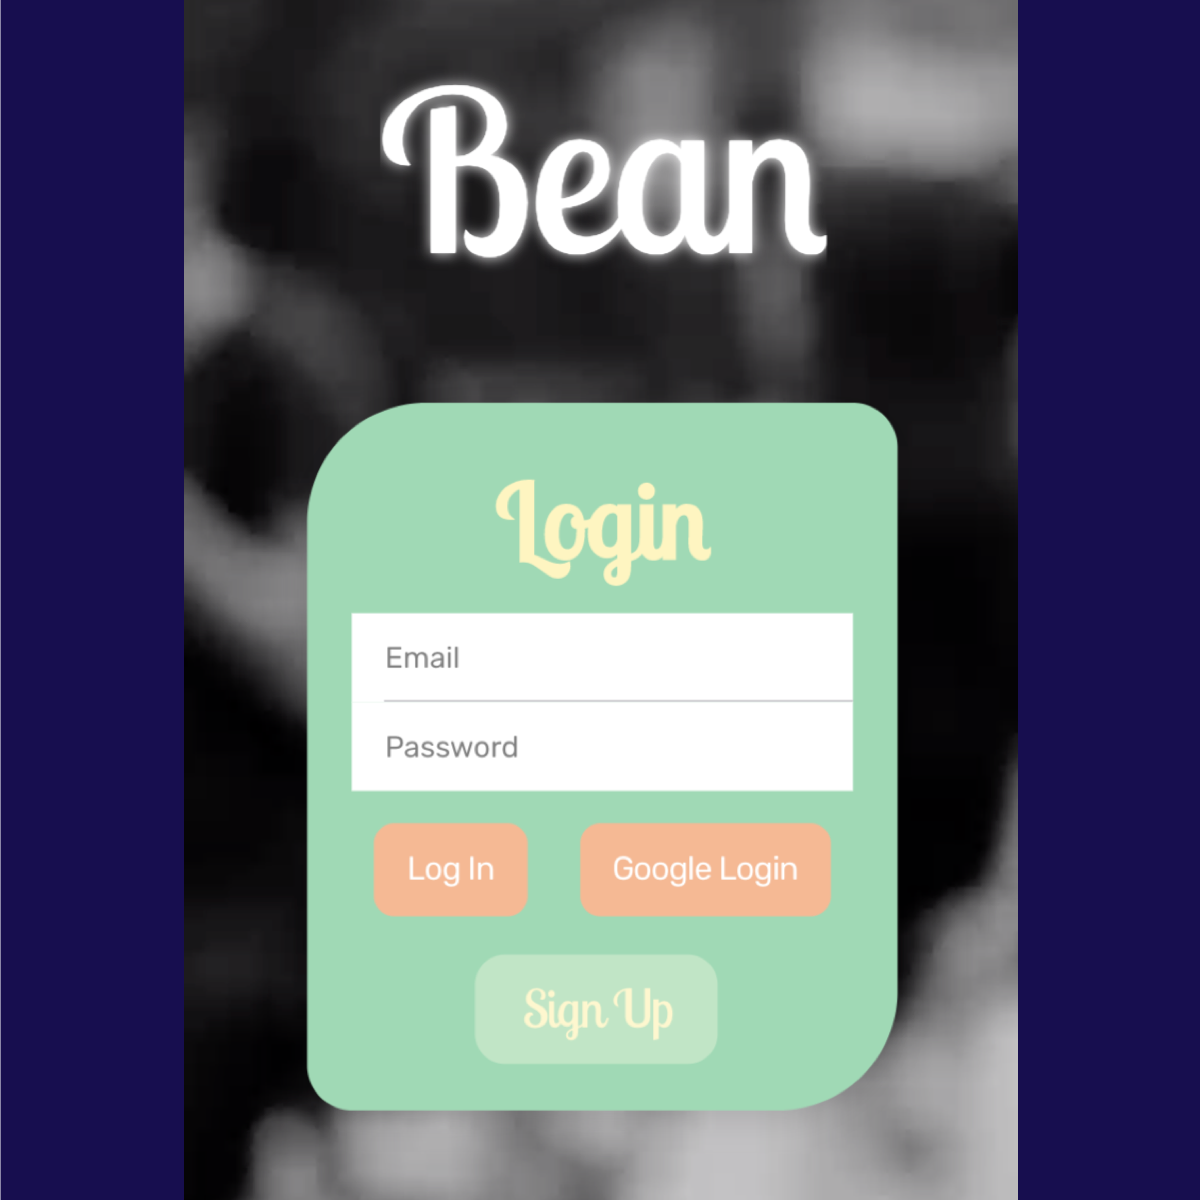
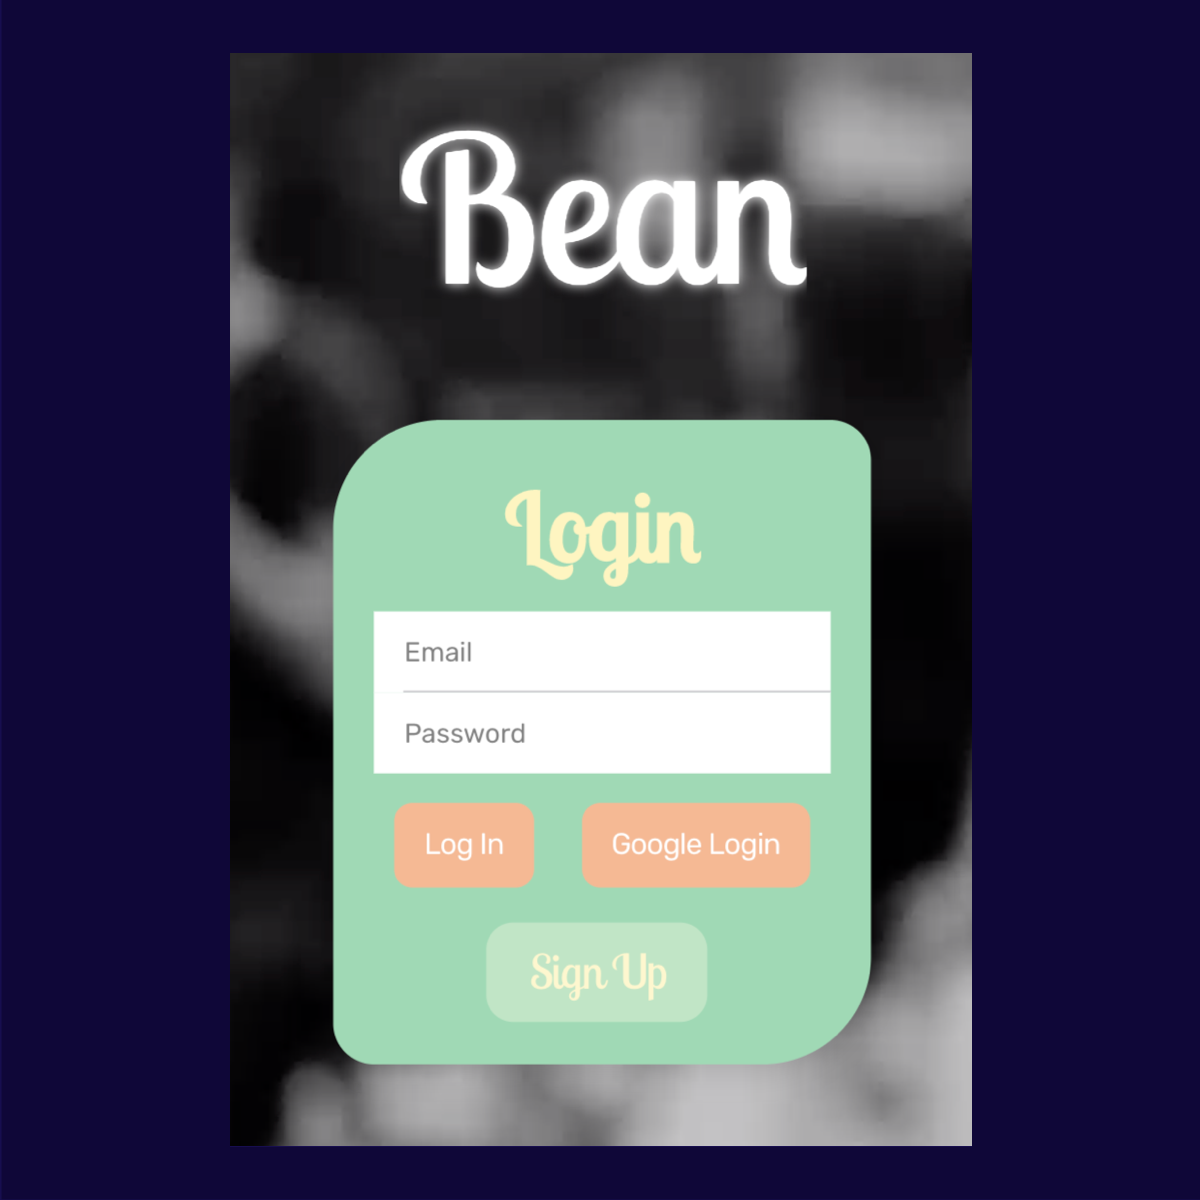
added project photo for secondary isolations

diff --git a/index.html b/index.html
@@ -132,7 +132,10 @@
         </div>
         <section>
           <a class="image"
-            ><img src="images/bean.png" alt="" data-position="center center"
+            ><img
+              src="images/secondary.png"
+              alt=""
+              data-position="center center"
           /></a>
           <div class="content">
             <div class="inner">
